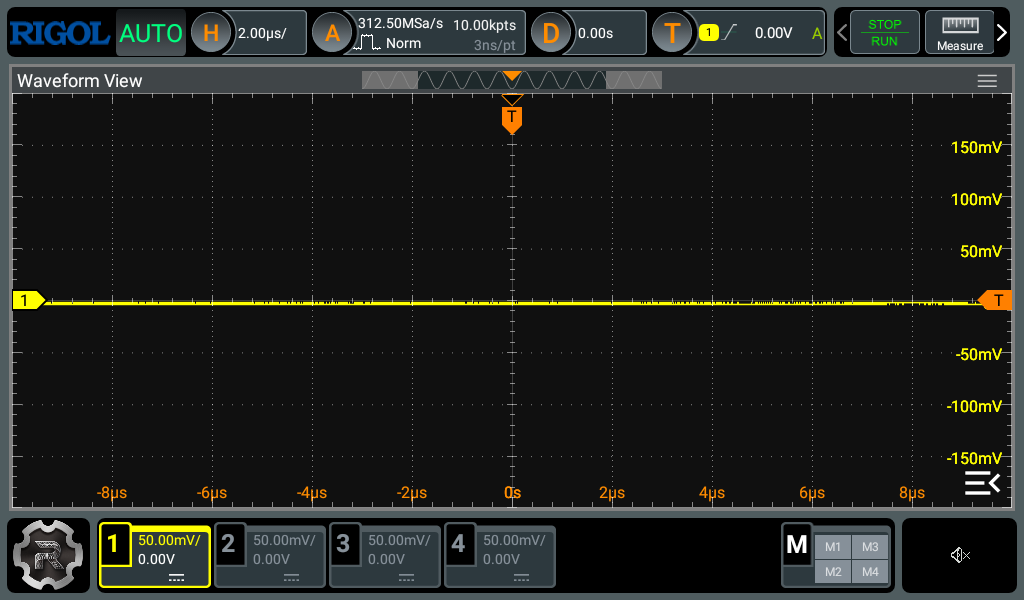
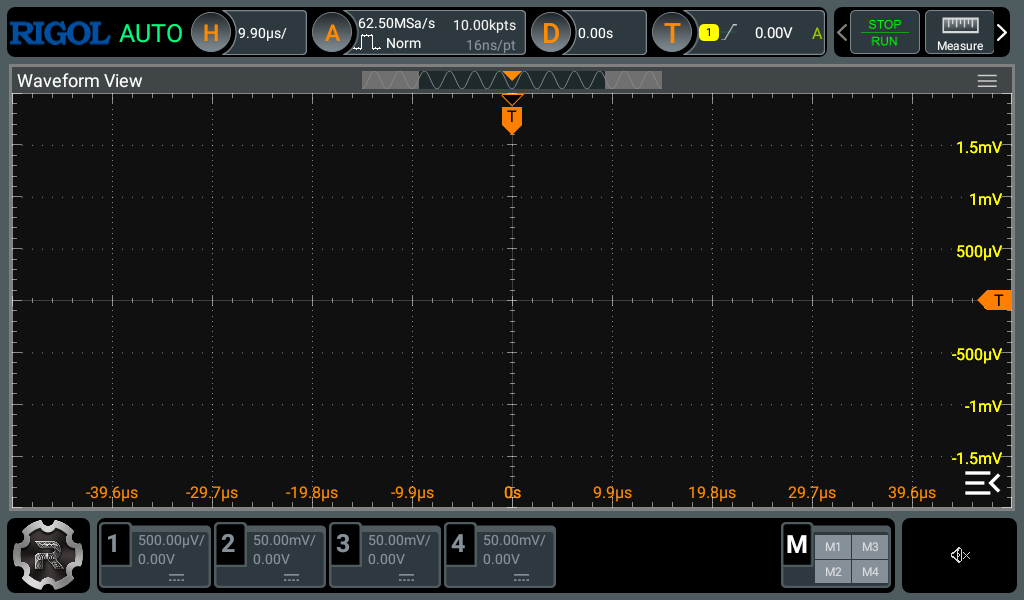
fix trigger source select bug

diff --git a/code.py b/code.py
@@ -543,8 +543,11 @@ class LiveScopeApp:
     def on_trigger_source_change(self, event):
         """เรียกเมื่อผู้ใช้เลือก trigger source ใหม่ (CH1-CH4)"""
         value = self.cb_trig_source.get()
+        ch = value[-1]
         print(f"[Trigger] เลือก source = {value}")
-        self.controller.write(f":TRIGger:EDGE:SOURce {value}")
+        print(f"command :TRIGger:EDGe:SOURce CHANnel{ch}")
+        self.controller.write(f":TRIGger:EDGe:SOURce CHANnel{ch}")
+
 
     def on_trigger_slope_change(self, event):
         """เรียกเมื่อผู้ใช้เลือก trigger slope ใหม่ (Rising/Falling)"""